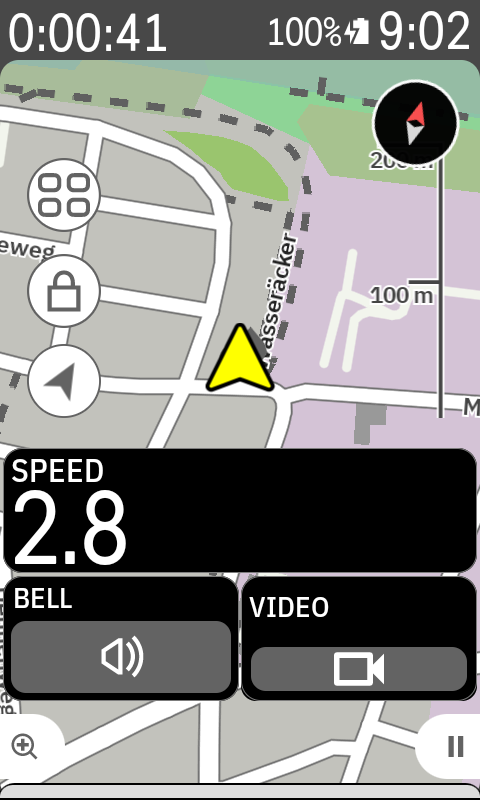
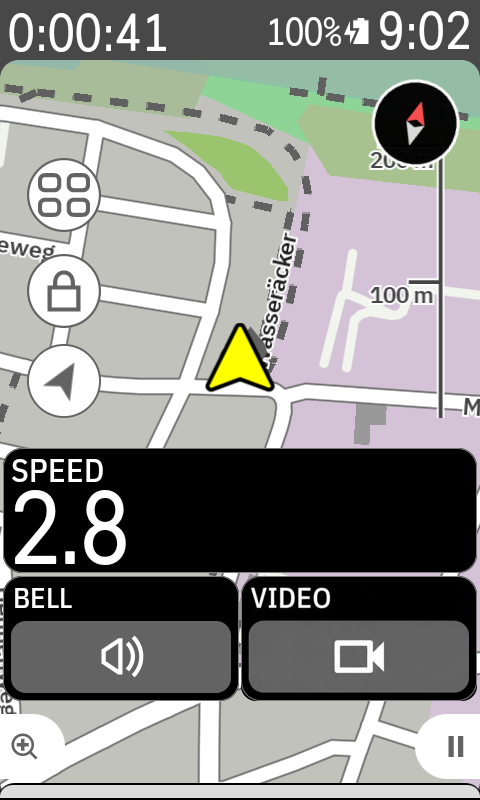
docs: match Video screenshot buttons and labels to Bell

Changed region(s): [[0.5, 0.7188, 1.0, 0.875], [0.9375, 0.8438, 0.9688, 0.875]]

diff --git a/README.md b/README.md
@@ -49,7 +49,7 @@ layouts, including the recording state.
   <tr>
     <td><img src="assets/screenshots/video-photo-small.jpg" alt="Small full-width Video + Photo widget below the map and speed field" width="180"></td>
     <td><img src="assets/screenshots/video-half-idle.png" alt="Half-width Video widget beside the Bell field on a map ride page" width="180"></td>
-    <td><img src="assets/screenshots/video-half.jpg" alt="Half-width Video widget with a red recording timer beside Bell" width="180"></td>
+    <td><img src="assets/screenshots/video-half-recording.png" alt="Half-width Video widget with a red recording timer beside Bell" width="180"></td>
     <td><img src="assets/screenshots/cam-control-full.jpg" alt="Full-screen Cam Control with battery, storage, prevent standby, video, photo, settings and power controls" width="180"></td>
   </tr>
 </table>
